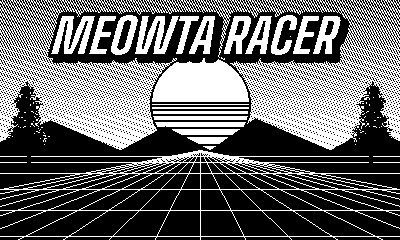
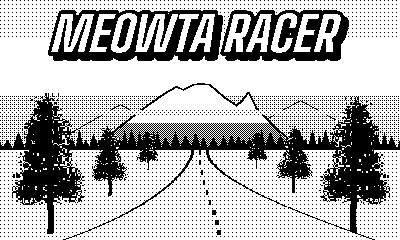
PNW title: Mt. Rainier, treeline, roadside firs; remove credit line

diff --git a/draw_title.py b/draw_title.py
@@ -1,146 +1,137 @@
 #!/usr/bin/env python3
 """
-Generate the title attract-screen background:  Source/images/title.png  (400x240, 1-bit)
+Generate the title attract-screen background:  Source/images/title.png (400x240, 1-bit)
 
-An original 80s/early-90s arcade-racer homage: a synthwave sun with scanline
-bands, a mountain silhouette, a retro perspective grid, framing palms, and a
-big italic outlined wordmark. The car sprite and the blinking "PRESS A" prompt
-are drawn live in main.lua on top of this.
+Pacific-Northwest rainforest mood: layered evergreen ridgelines receding into
+fog, soft overcast light, drifting mist bands, the game's own fir trees framing
+the foreground, and a faint road winding into the trees. The car sprite and the
+blinking "PRESS A" prompt are drawn live in main.lua on top of this.
 
 Change TITLE and re-run to rename the game's logo.
-Run: python3 draw_title.py
 """
 from PIL import Image, ImageDraw, ImageFont
 import numpy as np
-import os
+import os, random
 
 TITLE = "MEOWTA RACER"
 W, H = 400, 240
 BLACK = (0, 0, 0, 255)
 WHITE = (255, 255, 255, 255)
 OUT = "Source/images/title.png"
-HORIZON = 150
+HORIZON = 152
 
 FONT_PATH = "/mnt/skills/examples/canvas-design/canvas-fonts/BigShoulders-Bold.ttf"
-PALM_PATH = "Source/images/palm.png"
+TREE_PATH = "Source/images/palm.png"   # the user's hand-made fir
+
+_B = np.array([[0, 8, 2, 10], [12, 4, 14, 6], [3, 11, 1, 9], [15, 7, 13, 5]]) / 16.0
+BAYER = np.tile(_B, (H // 4 + 1, W // 4 + 1))[:H, :W]
 
 
-def synth_sun(cx, cy, r):
-    """White sun disc with classic widening scanline bands below the midline."""
+def dither_fill(a, mask, density):
+    a[mask & (BAYER < density)] = BLACK
+
+
+def forest_ridge(crest_y, jag, seed):
+    rng = random.Random(seed)
     yy, xx = np.mgrid[0:H, 0:W]
-    disc = (xx - cx) ** 2 + (yy - cy) ** 2 <= r * r
-    band_rows = set()
-    y, gap = cy - 2, 3
-    while y < cy + r:
-        band_rows.update((y, y + 1))
-        y += gap
-        gap += 1
-    band = np.isin(yy, list(band_rows))
-    return disc, band
+    pts = np.zeros(W)
+    x = 0
+    while x < W:
+        step = rng.randint(5, 11)
+        top = crest_y + rng.randint(-jag, jag)
+        for k in range(step):
+            if x + k < W:
+                tip = top - (jag // 2 if k == step // 2 else 0)
+                pts[x + k] = tip
+        x += step
+    crest = pts[xx[0]]
+    return (yy >= crest[None, :]) & (yy < HORIZON)
 
 
 def render_logo(target_w):
-    """Italic, white-fill / black-outline wordmark with a drop shadow -> RGBA (1-bit)."""
     try:
         font = ImageFont.truetype(FONT_PATH, 150)
     except Exception:
         font = ImageFont.truetype("/usr/share/fonts/truetype/google-fonts/Poppins-Bold.ttf", 130)
-
     tmp = Image.new("RGBA", (1400, 320), (0, 0, 0, 0))
-    d = ImageDraw.Draw(tmp)
-    d.text((30, 20), TITLE, font=font, fill=WHITE, stroke_width=10, stroke_fill=BLACK)
-    bbox = tmp.getbbox()
-    logo = tmp.crop(bbox)
-
-    # italic shear
-    sh = 0.28
+    ImageDraw.Draw(tmp).text((30, 20), TITLE, font=font, fill=WHITE,
+                             stroke_width=10, stroke_fill=BLACK)
+    logo = tmp.crop(tmp.getbbox())
+    sh = 0.26
     nw = logo.width + int(logo.height * sh)
-    logo = logo.transform((nw, logo.height), Image.AFFINE, (1, sh, -sh * logo.height, 0, 1, 0),
-                           resample=Image.BICUBIC)
-
-    # scale to target width
+    logo = logo.transform((nw, logo.height), Image.AFFINE,
+                          (1, sh, -sh * logo.height, 0, 1, 0), resample=Image.BICUBIC)
     scale = target_w / logo.width
     logo = logo.resize((target_w, max(1, int(logo.height * scale))), Image.LANCZOS)
-
-    # threshold to crisp 1-bit + binary alpha
-    a = np.array(logo)
-    alpha = (a[..., 3] >= 110).astype(np.uint8) * 255
-    lum = np.where(a[..., 0] >= 128, 255, 0).astype(np.uint8)
-    out = np.zeros_like(a)
+    arr = np.array(logo)
+    alpha = (arr[..., 3] >= 110).astype(np.uint8) * 255
+    lum = np.where(arr[..., 0] >= 128, 255, 0).astype(np.uint8)
+    out = np.zeros_like(arr)
     out[..., 0] = lum; out[..., 1] = lum; out[..., 2] = lum; out[..., 3] = alpha
     crisp = Image.fromarray(out, "RGBA")
-
-    # drop shadow: black silhouette offset behind
-    sil = np.zeros_like(a)
-    sil[..., 3] = alpha
-    shadow = Image.fromarray(sil, "RGBA")
+    sil = np.zeros_like(arr); sil[..., 3] = alpha
     pad = 5
     canvas = Image.new("RGBA", (crisp.width + pad, crisp.height + pad), (0, 0, 0, 0))
-    canvas.alpha_composite(shadow, (pad, pad))
+    canvas.alpha_composite(Image.fromarray(sil, "RGBA"), (pad, pad))
     canvas.alpha_composite(crisp, (0, 0))
     return canvas
 
 
 def main():
     os.chdir(os.path.dirname(os.path.abspath(__file__)))
-    img = Image.new("RGBA", (W, H), WHITE)
-    d = ImageDraw.Draw(img)
-
-    # --- sky gradient: faint dither getting denser toward the top ---
+    a = np.full((H, W, 4), 255, dtype=np.uint8)
+    a[..., 3] = 255
     yy, xx = np.mgrid[0:H, 0:W]
-    a = np.array(img)
+
     sky = yy < HORIZON
-    dens = np.clip((HORIZON - yy) / HORIZON, 0, 1) * 0.5      # 0 at horizon -> .5 at top
-    spot = (((xx * 7 + yy * 13) % 17) / 17.0) < dens
-    a[sky & spot] = BLACK
+    a[sky & (BAYER < 0.06)] = BLACK      # barely-there overcast tone
+
+    back  = forest_ridge(98,  6, 1)
+    midr  = forest_ridge(114, 7, 2)
+    front = forest_ridge(132, 8, 3)
+    dither_fill(a, back,  0.32)
+    dither_fill(a, midr,  0.60)
+    dither_fill(a, front, 0.90)
+
+    # mist bands between the ridge layers + along the horizon
+    for fy in (110, 128):
+        band = (yy >= fy) & (yy < fy + 3)
+        a[band] = WHITE
+        a[band & (BAYER < 0.10)] = BLACK
+    hmist = (yy >= HORIZON - 4) & (yy < HORIZON + 4)
+    a[hmist] = WHITE
+    a[hmist & (BAYER < 0.08)] = BLACK
+
+    ground = yy >= HORIZON
+    a[ground] = WHITE
+    a[ground & (BAYER < 0.10)] = BLACK
+    road = np.zeros((H, W), dtype=bool)
+    for y in range(HORIZON, H):
+        t = (y - HORIZON) / (H - HORIZON)
+        half = int(6 + t * t * 150)
+        cxr = int(W // 2 + 8 + np.sin(t * 2.2) * 26 * t)
+        road[y, max(0, cxr - half):min(W, cxr + half)] = True
+    a[road] = WHITE
+    a[road & (BAYER < 0.06)] = BLACK
+
     img = Image.fromarray(a, "RGBA")
-    d = ImageDraw.Draw(img)
 
-    # --- synth sun behind the logo ---
-    disc, band = synth_sun(W // 2, 104, 50)
-    a = np.array(img)
-    a[disc] = WHITE
-    a[disc & band] = BLACK
-    img = Image.fromarray(a, "RGBA")
-    d = ImageDraw.Draw(img)
-    d.ellipse([W//2 - 50, 104 - 50, W//2 + 50, 104 + 50], outline=BLACK, width=2)
-
-    # --- mountain silhouette along the horizon (low enough to show the sun) ---
-    peaks = [(-20, HORIZON), (50, 120), (120, HORIZON), (165, 126),
-             (210, HORIZON), (255, 118), (330, HORIZON), (370, 128), (420, HORIZON)]
-    d.polygon(peaks + [(W, H), (0, H)], fill=BLACK)
-    d.rectangle([0, HORIZON, W, HORIZON + 1], fill=BLACK)
-
-    # --- retro perspective grid on the ground (white on the black ground) ---
-    vp = (W // 2, HORIZON)
-    for gx in range(-10, 11):
-        x_bottom = W // 2 + gx * 46
-        d.line([vp, (x_bottom, H)], fill=WHITE, width=1)
-    yy2 = HORIZON + 6
-    step = 6
-    while yy2 < H:
-        d.line([(0, yy2), (W, yy2)], fill=WHITE, width=1)
-        yy2 += step
-        step += 5
-
-    # --- framing palms (silhouettes) ---
     try:
-        palm = Image.open(PALM_PATH).convert("RGBA")
-        ph = 82
-        pw = int(palm.width * ph / palm.height)
-        palm = palm.resize((pw, ph), Image.NEAREST)
-        img.alpha_composite(palm, (4, HORIZON - ph + 14))
-        img.alpha_composite(palm.transpose(Image.FLIP_LEFT_RIGHT), (W - pw - 4, HORIZON - ph + 14))
+        tree = Image.open(TREE_PATH).convert("RGBA")
+        th = 168
+        tw = int(tree.width * th / tree.height)
+        big = tree.resize((tw, th), Image.NEAREST)
+        img.alpha_composite(big, (-18, H - th + 8))
+        sm = tree.resize((int(tw * 0.8), int(th * 0.8)), Image.NEAREST)
+        img.alpha_composite(sm.transpose(Image.FLIP_LEFT_RIGHT), (W - sm.width + 16, H - sm.height + 6))
     except Exception:
         pass
 
-    # --- wordmark ---
     logo = render_logo(300)
     img.alpha_composite(logo, ((W - logo.width) // 2, 12))
 
-    # hard 1-bit clamp on the whole frame
     a = np.array(img)
-    lum = (0.3 * a[..., 0] + 0.59 * a[..., 1] + 0.11 * a[..., 2])
+    lum = 0.3 * a[..., 0] + 0.59 * a[..., 1] + 0.11 * a[..., 2]
     bw = np.where(lum >= 128, 255, 0).astype(np.uint8)
     a[..., 0] = bw; a[..., 1] = bw; a[..., 2] = bw; a[..., 3] = 255
     Image.fromarray(a, "RGBA").convert("RGB").save(OUT)
